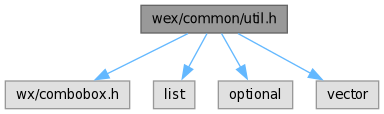
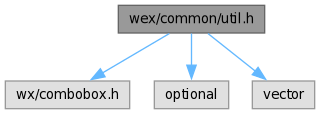
final updates for v24.10

Changed region(s): [[0.0, 0.2895, 1.0, 0.9737], [0.3438, 0.0263, 0.8438, 0.3158]]

diff --git a/v24.10.0/html/common_2util_8h.html b/v24.10.0/html/common_2util_8h.html
@@ -54,7 +54,6 @@ $(function() {
 <code>#include &lt;wex/data/dir.h&gt;</code><br />
 <code>#include &lt;wex/data/stc.h&gt;</code><br />
 <code>#include &lt;wx/combobox.h&gt;</code><br />
-<code>#include &lt;list&gt;</code><br />
 <code>#include &lt;optional&gt;</code><br />
 <code>#include &lt;vector&gt;</code><br />
 </div><div class="textblock"><div class="dynheader">
@@ -62,15 +61,13 @@ Include dependency graph for util.h:</div>
 <div class="dyncontent">
 <div class="center"><img src="common_2util_8h__incl.png" border="0" usemap="#awex_2common_2util_8h" alt=""/></div>
 <map name="awex_2common_2util_8h" id="awex_2common_2util_8h">
-<area shape="rect" title=" " alt="" coords="141,5,287,33"/>
+<area shape="rect" title=" " alt="" coords="118,5,265,33"/>
 <area shape="rect" title=" " alt="" coords="5,81,130,109"/>
-<area shape="poly" title=" " alt="" coords="189,36,108,76,106,71,187,31"/>
-<area shape="rect" title=" " alt="" coords="154,81,195,109"/>
-<area shape="poly" title=" " alt="" coords="209,35,191,69,186,66,205,32"/>
-<area shape="rect" title=" " alt="" coords="218,81,293,109"/>
-<area shape="poly" title=" " alt="" coords="224,32,243,66,238,69,219,35"/>
-<area shape="rect" title=" " alt="" coords="316,81,379,109"/>
-<area shape="poly" title=" " alt="" coords="239,31,312,71,310,76,237,36"/>
+<area shape="poly" title=" " alt="" coords="171,36,104,75,101,71,168,31"/>
+<area shape="rect" title=" " alt="" coords="154,81,229,109"/>
+<area shape="poly" title=" " alt="" coords="194,34,194,65,189,65,189,34"/>
+<area shape="rect" title=" " alt="" coords="252,81,315,109"/>
+<area shape="poly" title=" " alt="" coords="210,31,257,69,254,73,206,36"/>
 </map>
 </div>
 </div><table class="memberdecls">
@@ -82,11 +79,11 @@ Functions</h2></td></tr>
 <tr class="memitem:aa1163f70ebf2bc906e0df15b49b84c3c" id="r_aa1163f70ebf2bc906e0df15b49b84c3c"><td class="memTemplParams" colspan="2"><a id="aa1163f70ebf2bc906e0df15b49b84c3c" name="aa1163f70ebf2bc906e0df15b49b84c3c"></a>
 template&lt;typename T &gt; </td></tr>
 <tr class="memitem:aa1163f70ebf2bc906e0df15b49b84c3c"><td class="memTemplItemLeft" align="right" valign="top">void&#160;</td><td class="memTemplItemRight" valign="bottom"><b>wex::combobox_as</b> (wxComboBox *cb, const T &amp;t)</td></tr>
-<tr class="memdesc:aa1163f70ebf2bc906e0df15b49b84c3c"><td class="mdescLeft">&#160;</td><td class="mdescRight">Adds entries to a combobox from a container. <br /></td></tr>
+<tr class="memdesc:aa1163f70ebf2bc906e0df15b49b84c3c"><td class="mdescLeft">&#160;</td><td class="mdescRight">Sets entries for a combobox from a container. <br /></td></tr>
 <tr class="separator:aa1163f70ebf2bc906e0df15b49b84c3c"><td class="memSeparator" colspan="2">&#160;</td></tr>
 <tr class="memitem:aef5589be39ec8816f17cbb61535f2f6e" id="r_aef5589be39ec8816f17cbb61535f2f6e"><td class="memItemLeft" align="right" valign="top"><a id="aef5589be39ec8816f17cbb61535f2f6e" name="aef5589be39ec8816f17cbb61535f2f6e"></a>
 void&#160;</td><td class="memItemRight" valign="bottom"><b>wex::combobox_from_list</b> (wxComboBox *cb, const strings_t &amp;text)</td></tr>
-<tr class="memdesc:aef5589be39ec8816f17cbb61535f2f6e"><td class="mdescLeft">&#160;</td><td class="mdescRight">Adds entries to a combobox from a list with strings. <br /></td></tr>
+<tr class="memdesc:aef5589be39ec8816f17cbb61535f2f6e"><td class="mdescLeft">&#160;</td><td class="mdescRight">Sets entries for a combobox from a list with strings. <br /></td></tr>
 <tr class="separator:aef5589be39ec8816f17cbb61535f2f6e"><td class="memSeparator" colspan="2">&#160;</td></tr>
 <tr class="memitem:ac8a0f3439fe77064dbb608ba0b5377b7" id="r_ac8a0f3439fe77064dbb608ba0b5377b7"><td class="memItemLeft" align="right" valign="top"><a id="ac8a0f3439fe77064dbb608ba0b5377b7" name="ac8a0f3439fe77064dbb608ba0b5377b7"></a>
 bool&#160;</td><td class="memItemRight" valign="bottom"><b>wex::compare_file</b> (const <a class="el" href="classwex_1_1path.html">path</a> &amp;file1, const <a class="el" href="classwex_1_1path.html">path</a> &amp;file2)</td></tr>

diff --git a/v24.10.0/html/core_8h.html b/v24.10.0/html/core_8h.html
@@ -202,7 +202,7 @@ const std::string&#160;</td><td class="memItemRight" valign="bottom"><b>wex::rfi
 </div><div class="memdoc">
 
 <p>Launch default browser. </p>
-<p>Returns false if no browser configured. </p>
+<p>Returns false if no browser configured or url could not be opened. </p>
 
 </div>
 </div>
@@ -222,7 +222,7 @@ const std::string&#160;</td><td class="memItemRight" valign="bottom"><b>wex::rfi
 </div><div class="memdoc">
 
 <p>Browse and search for text. </p>
-<p>Returns false if search engine is empty. </p>
+<p>Returns false if search engine is empty or browse returns false. </p>
 
 </div>
 </div>
